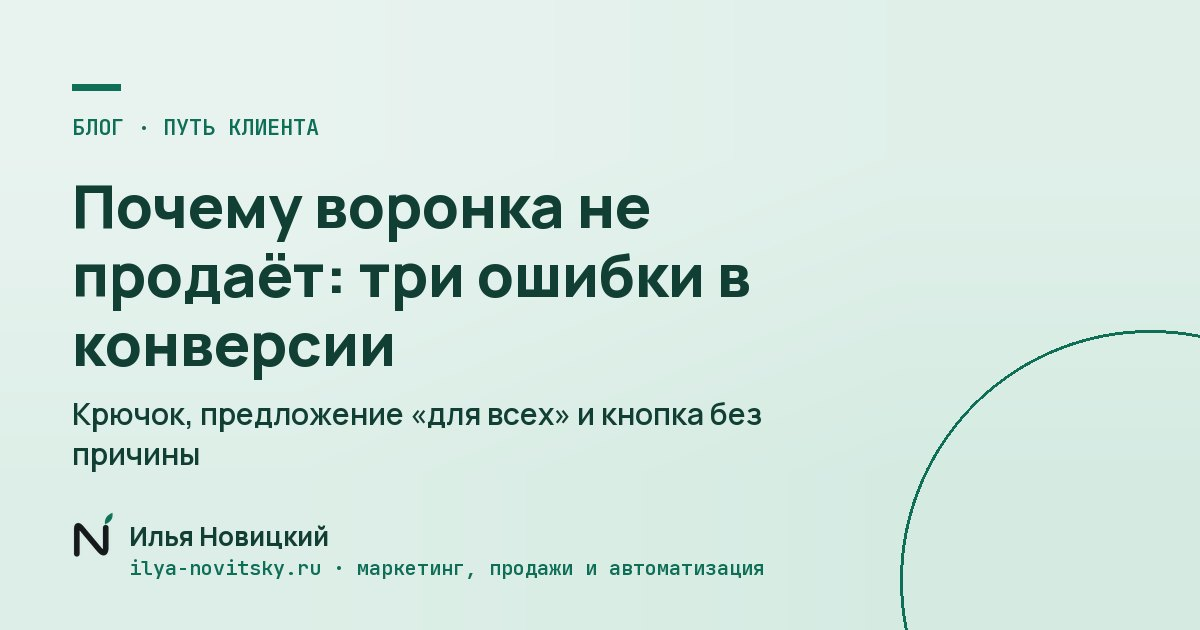
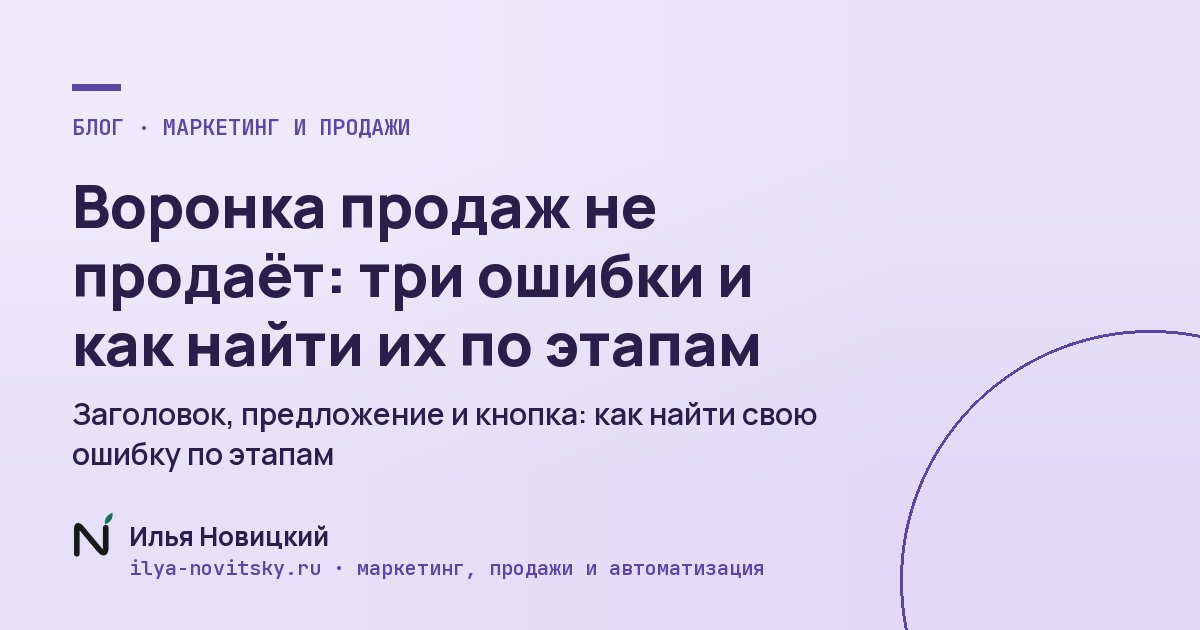
Блог: «Три ошибки воронки» под «воронка продаж», схема диагностики (#213)

diff --git a/src/lib/blog-viz.ts b/src/lib/blog-viz.ts
@@ -97,4 +97,13 @@ const loop = () => {
 		.join("")}</ol><p class="lp-back">↺ и снова новый курс</p><figcaption>Выход из круга не в следующем курсе, а в одной задаче, доведённой до конца.</figcaption></figure>`;
 };
 
-export const blogViz: Record<string, () => string> = { mvp, chain, agent, split, meme, funnel, speed, chat, loop };
+
+// «Воронка продаж: три ошибки»: симптом на этапе воронки → какая ошибка.
+const diag = () => {
+	const rows = [["🚪", "Приходят и сразу уходят", "Заголовок", "никто не узнаёт в нём себя"], ["🤷", "Заявки есть, оплат нет", "Предложение", "пытается угодить всем сразу"], ["👀", "Дочитывают и не нажимают", "Кнопка", "нет причины нажать сейчас"]];
+	return `<figure class="bviz bviz-diag"><p class="bviz-l">Диагностика воронки продаж за минуту</p><div class="dg">${rows
+		.map(([e, s, b, t]) => `<div class="dg-r"><span class="dg-e">${e}</span><p class="dg-s">${esc(s)}</p><span class="dg-a">→</span><p class="dg-b"><b>${esc(b)}</b>${esc(t)}</p></div>`)
+		.join("")}</div><figcaption>Смотрите, на каком этапе уходят люди: это и подскажет, какую ошибку чинить.</figcaption></figure>`;
+};
+
+export const blogViz: Record<string, () => string> = { mvp, chain, agent, split, meme, funnel, speed, chat, loop, diag };

diff --git a/src/styles/pages/blog.css b/src/styles/pages/blog.css
@@ -104,3 +104,15 @@
 .bviz-loop .lp-e{font-size:30px;line-height:1}
 @media(min-width:700px){.bviz-loop .lp li:not(:last-child)::after{content:"→";position:absolute;right:-9px;top:50%;transform:translateY(-50%);color:var(--mut);font-weight:700;z-index:1}}
 .bviz-loop .lp-back{margin:10px 0 0!important;text-align:center;font-weight:700;color:#b5651d}
+
+/* Диагностика воронки: симптом → ошибка */
+.bviz-diag .dg{display:grid;gap:8px}
+.bviz-diag .dg-r{display:grid;grid-template-columns:40px 1fr;gap:4px 12px;align-items:center;background:#fff;border-radius:12px;padding:12px 14px}
+@media(min-width:620px){.bviz-diag .dg-r{grid-template-columns:40px 1fr 24px 1.1fr}}
+.bviz-diag .dg-e{font-size:28px;line-height:1;grid-row:span 2}
+@media(min-width:620px){.bviz-diag .dg-e{grid-row:auto}}
+.bviz-diag .dg-s{margin:0!important;font-weight:600;font-size:15.5px}
+.bviz-diag .dg-a{display:none;color:var(--mut);font-weight:700}
+@media(min-width:620px){.bviz-diag .dg-a{display:block}}
+.bviz-diag .dg-b{margin:0!important;font-size:14.5px;color:var(--ink2)}
+.bviz-diag .dg-b b{color:#b5651d;margin-right:6px}

diff --git a/src/config/blog.ts b/src/config/blog.ts
@@ -16,7 +16,7 @@ export const posts: { slug: string; tag: string; cta: Cta; updated: string }[] =
 	{ slug: "kursy-po-ai-a-produkta-net", tag: "Внедрение ИИ", cta: "sreda", updated: "2026-10-29" },
 	{ slug: "pochemu-klienty-ne-vozvrashhayutsya", tag: "Маркетинг и продажи", cta: "repeat", updated: "2026-10-22" },
 	{ slug: "doverie-za-7-kasanij", tag: "Маркетинг и продажи", cta: "path", updated: "2026-10-22" },
-	{ slug: "tri-oshibki-voronki", tag: "Маркетинг и продажи", cta: "path", updated: "2026-10-22" },
+	{ slug: "tri-oshibki-voronki", tag: "Маркетинг и продажи", cta: "path", updated: "2026-10-29" },
 ];
 
 export const covers = ["c-emerald", "c-dark", "c-sand", "c-lilac", "c-mint"];

diff --git a/content/blog/tri-oshibki-voronki.md b/content/blog/tri-oshibki-voronki.md
@@ -1,44 +1,58 @@
 ---
-title: "Почему воронка не продаёт: три ошибки в конверсии"
-description: "Размытый крючок, предложение «для всех» и кнопка без причины: как распознать три системные ошибки воронки и чем их лечить, не переделывая всё."
-h1: "Почему воронка не продаёт: три ошибки, которые съедают конверсию"
-cover: "Три ошибки воронки"
+title: "Воронка продаж не продаёт: три ошибки и как найти их по этапам"
+description: "Почему воронка продаж не даёт оплат: три ошибки на этапах заголовка, предложения и кнопки, как найти свою по цифрам и где здесь помогает ИИ."
+h1: "Почему воронка продаж не продаёт: три ошибки, которые съедают конверсию"
+cover: "Воронка продаж: три ошибки"
 ---
 
-В агентство часто приходили с одной и той же фразой, «воронка не работает» или «на сайте заявки не конвертят». Первое желание в такой момент понятное, хочется добавить ещё блок, ещё отзыв, ещё абзац, чтобы уж точно убедить.
+В агентство часто приходили с одной и той же фразой: «воронка не работает» или «на сайте заявки не конвертят». Первое желание в такой момент понятное: добавить ещё блок, ещё отзыв, ещё абзац, чтобы уж точно убедить.
 
-Автоворонки и боты для продаж мы собирали пять лет, поэтому чужих воронок я видел много. **Чаще всего дело было в одной из трёх ошибок, и ни одна не лечится ещё одним абзацем.**
+Автоворонки и боты для продаж мы собирали пять лет, поэтому чужих воронок я видел много. **Чаще всего дело было в одной из трёх ошибок, и ни одна не лечится ещё одним абзацем.** А чтобы понять, какая из них ваша, достаточно посмотреть, на каком этапе воронки продаж уходят люди.
+
+[[viz:diag]]
 
 ## Ошибка первая. Заголовок, в котором никто не узнаёт себя
 
-Признак простой, людей приходит много, а уходят почти все сразу.
+Признак простой: людей приходит много, а уходят почти все сразу.
 
 Заголовок вроде «Увеличьте продажи с нашей системой» **написан для всех, а значит, ни для кого.** Кому увеличить, собственнику или маркетологу, и каких продаж? Человек не узнаёт в этом себя, не понимает, зачем ему читать дальше, и уходит туда, где с ним говорят понятнее.
 
-Лечится одним сегментом, одной болью и одной цифрой, например «Вы тратите двадцать часов в неделю на одинаковые ответы клиентам, и вот как их вернуть». На «вы» и «двадцать часов» человек реагирует, потому что узнаёт в этом свою неделю, а на абстрактное «увеличьте» нет.
+Лечится одним сегментом, одной болью и одной цифрой. Например: «Вы тратите двадцать часов в неделю на одинаковые ответы клиентам, и вот как их вернуть». На «вы» и «двадцать часов» человек реагирует, потому что узнаёт в этом свою неделю, а на абстрактное «увеличьте» нет.
 
 ## Ошибка вторая. Предложение, которое пытается угодить всем
 
 Заявки есть, а оплат нет. Человек дошёл до предложения и так и не понял, что оно про него.
 
-Когда предложение пытается угодить одновременно новичку, эксперту и тем, кто просто смотрит, в момент решения ни у кого не находится причины сказать «да». Поэтому **пишите его для одного идеального клиента.** Кажется, что так вы отрезаете часть покупателей, но остальные подтянутся позже, а конверсия почти всегда растёт, когда предложение сужают.
+Когда предложение пытается угодить одновременно новичку, эксперту и тем, кто просто смотрит, в момент решения ни у кого не находится причины сказать «да». Поэтому **пишите его для одного идеального клиента.** Кажется, что так вы отрезаете часть покупателей, но по моему опыту конверсия почти всегда растёт, когда предложение сужают.
 
 ## Ошибка третья. Кнопка, которую не за что нажать
 
 Страницу дочитывают до конца и не нажимают.
 
-«Оставить заявку» без ответа на вопрос «а зачем сейчас?» звучит как просьба в пустоту, и человек откладывает, чаще всего навсегда. **Кнопка должна обещать пользу и давать причину нажать сейчас**, например «разобрать вашу воронку, тридцать минут, на этой неделе есть три окна».
+«Оставить заявку» без ответа на вопрос «а зачем сейчас?» звучит как просьба в пустоту, и человек откладывает, чаще всего навсегда. **Кнопка должна обещать пользу и давать причину нажать сейчас.** Например: «разобрать вашу воронку, тридцать минут, на этой неделе есть три окна».
 
-Добавить в воронку можно всегда, и это самое лёгкое. Труднее остановиться и сначала посмотреть, на каком шаге уходят люди.
+## Как найти свою ошибку: анализ воронки продаж по этапам
+
+Добавить в воронку можно всегда, и это самое лёгкое. Труднее остановиться и сначала посчитать, сколько людей проходит каждый этап.
+
+Для этого нужны цифры по шагам, а не общее число посетителей: сколько пришло, сколько дочитало до предложения, сколько оставило заявку, сколько получило ответ, сколько оплатило. Если воронка продаж ведётся в CRM, большая часть этих цифр уже лежит там, их просто никто не сводил вместе.
+
+Здесь хорошо помогает ИИ. Агент может разобрать сотни переписок и звонков и показать, на каком вопросе люди замолкают и что именно их останавливает. Человеку на это нужны недели, агенту часы. Как это выглядит на живых цифрах, показано в [примере аудита](/primer-audita), а что ещё в продажах можно отдать агентам, я разбирал в статье про [ИИ в продажах](/blog/ii-v-prodazhah).
 
 **Ещё один абзац помогает только тогда, когда понятно, куда его ставить.**
 
 ## Вопросы
 
+**Какие этапы у воронки продаж?**  
+У каждого бизнеса свои, но основа одна: человек узнал о вас, понял, что предложение про него, оставил заявку, получил ответ и оплатил. Ошибка может прятаться на любом из этих шагов, поэтому смотреть нужно на каждый.
+
 **Как понять, какая ошибка у меня?**  
-Посмотрите, где уходят люди. Если сразу после захода, это заголовок, если до заявки доходят, а до оплаты нет, это предложение, а если дочитывают до конца и не нажимают, это кнопка. Для этого нужны цифры по каждому шагу, общего числа посетителей мало.
+Посмотрите, где уходят люди. Если сразу после захода, это заголовок. Если до заявки доходят, а до оплаты нет, это предложение. Если дочитывают до конца и не нажимают, это кнопка.
 
 **Что чинить первым?**  
-То, что стоит раньше по пути. Нет смысла полировать кнопку, если до неё доходит один человек из ста. А если проблема в самом начале и заголовок ни о ком, начните с того, [как назвать боль клиента](/blog/bol-pokupatelya).
+То, что стоит раньше по пути. Нет смысла полировать кнопку, если до неё доходит один человек из ста.
 
-Если не получается понять, где теряются люди, приходите на бесплатный разбор задачи: за 30 минут посмотрим вашу воронку вместе, а как собрать её по порядку, от заголовка до кнопки, разбираю в книге [«Нейро-воронка»](/book).
+**Нужна ли CRM, чтобы анализировать воронку?**  
+Без неё можно начать с таблицы, но с CRM проще: этапы, сделки и переписка лежат в одном месте, и их можно разбирать, в том числе с помощью ИИ.
+
+Если не получается понять, где теряются люди, приходите на бесплатный разбор задачи: за 30 минут посмотрим вашу воронку вместе. А как собрать воронку по порядку, от заголовка до кнопки, я разбираю в книге [«Нейро-воронка»](/book).
